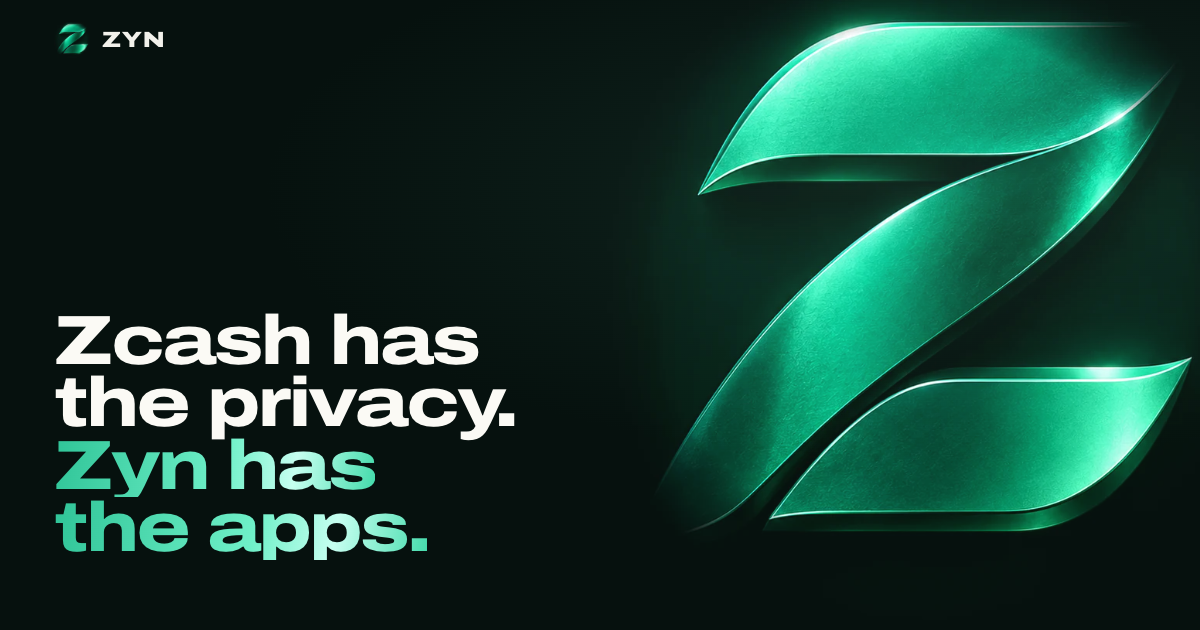
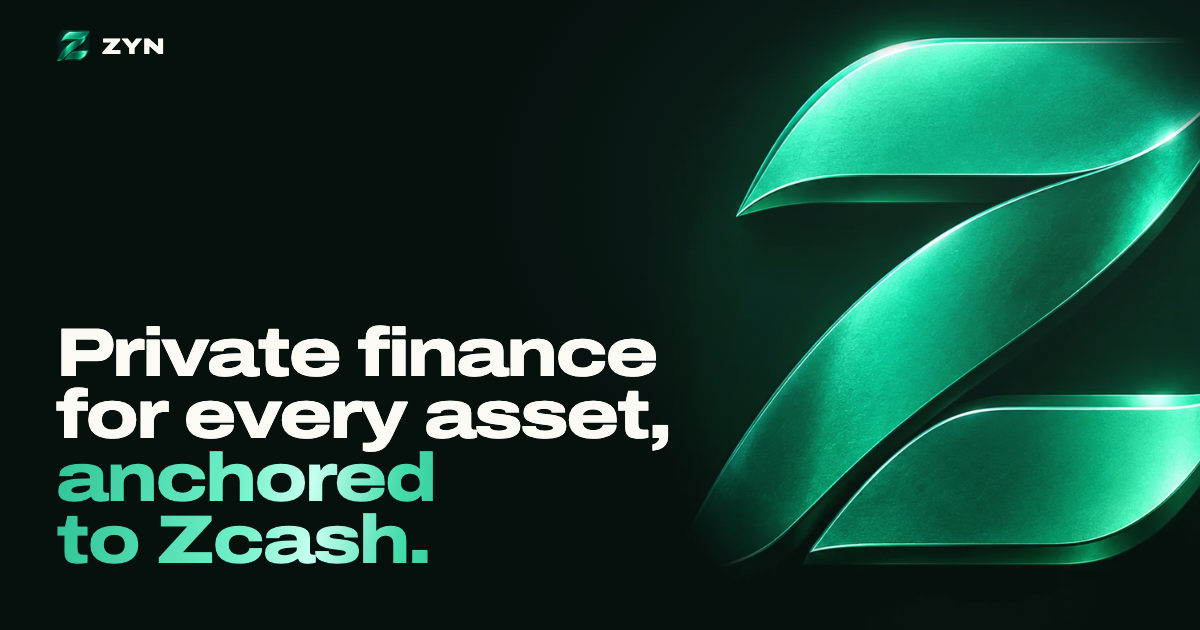
Landing hero: Private finance for every asset, anchored to Zcash.
One sentence for what Zyn is building towards, in place of the contrast
pair; the share image and og:title follow, and the hero line names lending.
MESSAGING records it as the hero line and keeps slogans to sections after
the hero.

Claude-Session: https://claude.ai/code/session_01CmFevaTjSkgCBKFJUHE9v5

diff --git a/apps/zyn-site/public/index.html b/apps/zyn-site/public/index.html
@@ -6,7 +6,7 @@
   <title>Zyn — applications for private ZEC</title>
   <meta name="description" content="Zyn is an application execution layer built for Zcash. It runs deterministic application state machines, batches their activity, and anchors state commitments to Zcash.">
   <meta name="theme-color" content="#06110E">
-  <meta property="og:title" content="Zyn — Zcash has the privacy. Zyn has the apps.">
+  <meta property="og:title" content="Zyn — Private finance for every asset, anchored to Zcash.">
   <meta property="og:description" content="An application execution layer built for Zcash: a wallet, lending, a market, a launchpad, a collection and bridges, with the trust model stated up front.">
   <meta property="og:image" content="https://zyn-network.com/assets/og.png">
   <meta property="og:type" content="website">
@@ -45,8 +45,8 @@
     </div>
 
     <div class="hero-copy">
-      <h1 data-cubes="hero"><span class="line">Zcash has</span> <span class="line">the privacy.</span> <span class="line jade">Zyn has</span> <span class="line jade">the apps.</span></h1>
-      <p class="lede">Swap, launch, collect and bridge with ZEC. Zyn runs the apps in batches and anchors the results to Zcash.</p>
+      <h1 data-cubes="hero"><span class="line">Private finance</span> <span class="line">for every asset,</span> <span class="line jade">anchored</span> <span class="line jade">to Zcash.</span></h1>
+      <p class="lede">Swap, lend, launch, collect and bridge with ZEC. Zyn runs the apps in batches and anchors the results to Zcash.</p>
       <p class="actions">
         <a class="button" href="https://nap.cavebro.win/">Open Nap Wallet</a>
         <a class="quiet" href="#trust">What you are trusting <span aria-hidden="true">↓</span></a>

diff --git a/docs/MESSAGING.md b/docs/MESSAGING.md
@@ -13,10 +13,13 @@ against the code, then add it here.**
 > application state machines, batches their activity, and anchors state
 > commitments to Zcash.**
 
-Compact, for a headline:
+What we are building towards — the hero headline, one sentence (30 Sep 2026):
 
-> **ZEC has private money. Zyn gives it applications.**
-> Cave is the first consumer app powered by Zyn.
+> **Private finance for every asset, anchored to Zcash.**
+
+It names the destination, not today: the trust section beside it says the
+operator sees positions and trades now. Slogans ("ZEC has private money. Zyn
+gives it applications.") belong only in landing-page sections after the hero.
 
 The hierarchy, which keeps getting flattened:
 
